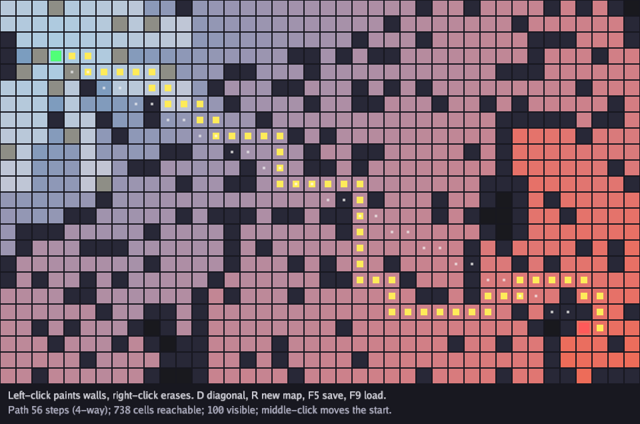
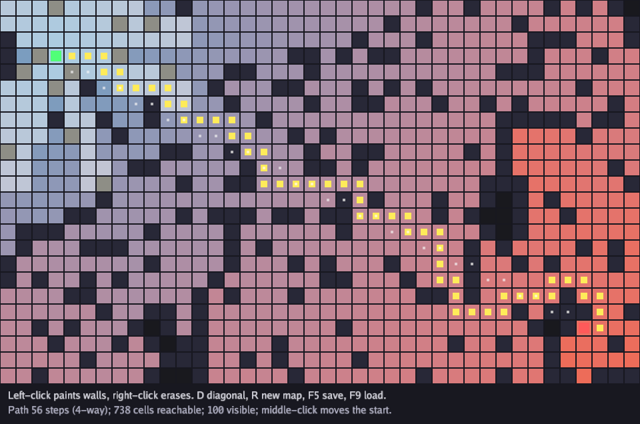
Say plainly that AStar is uninformed and add Pathfinder.MinCost
AStar uses a zero heuristic so it stays correct for zero and
fractional costs, which makes it expand cells in every direction and
several times slower than AStarWithMinCost on an open map. The doc
comments now say so and tell a game to pass the smallest step cost.
Pathfinder.MinCost lets a game set that bound once for a map; its zero
value keeps AStar's current results.

The pathfinding example now calls AStarWithMinCost with 1, the
smallest step it has (a diagonal costs the square root of 2). Its
screenshot shows a different path: ties break differently under the
heuristic, and both paths cost exactly the Dijkstra distance (56 on
the four-way screenshot map, 41.46 eight-way). The golden and the
walkthrough screenshot were rerecorded; the goldens are compared on
another GPU, and an M2 frame of the old path matched the stored image
within tolerance, so the new image will too.

diff --git a/grid/grid.go b/grid/grid.go
@@ -7,8 +7,10 @@
 // over points, so they work on any map representation, not only a Grid.
 // AStar finds one path with four or eight-way movement and a cost per
 // step, including zero and fractional costs. It uses a zero heuristic
-// because the callback provides no positive lower bound on step costs.
-// To guide the search when a lower bound is known, call AStarWithMinCost.
+// because the callback provides no positive lower bound on step costs,
+// so the search is uninformed and expands cells in every direction. For
+// speed, call AStarWithMinCost with the smallest cost any step can
+// have, or set Pathfinder.MinCost once for a map.
 // Dijkstra fills a map of distances from many sources at once. Downhill
 // selects a lower-valued neighbour, useful for uniform-cost movement
 // toward the sources. FOV computes which cells are
@@ -128,8 +130,13 @@ type Cost func(from, to Point) float32
 // Initial searches or buffer growth may allocate. An out-of-bounds
 // endpoint has no path; equal in-bounds endpoints return one point without
 // calling cost.
-// The search uses a zero heuristic to support every nonnegative cost;
-// this can explore more cells than a heuristic with a known cost bound.
+//
+// Without a minimum step cost the search is uninformed: it uses a zero
+// heuristic, which keeps it correct for zero and fractional costs but
+// makes it expand cells in every direction, as Dijkstra does. On a
+// 256 by 256 map that is several times slower than a guided search. For
+// speed, call AStarWithMinCost with the smallest cost any step can have,
+// 1 for a map where every move costs at least 1.
 func AStar(w, h int, start, goal Point, diagonal bool, cost Cost) []Point {
 	return AStarWithMinCost(w, h, start, goal, diagonal, cost, 0)
 }
@@ -173,6 +180,15 @@ func Dijkstra(w, h int, sources []Point, diagonal bool, cost Cost) *Grid[float32
 // NewPathfinder and keep it for as long as the map lasts. A Pathfinder
 // is not safe for concurrent use; give each goroutine its own.
 type Pathfinder struct {
+	// MinCost is the smallest cost any traversable step on the map can
+	// have, diagonals included. To make every AStar call on this
+	// pathfinder a guided search, set it once when the map is made: AStar
+	// then searches as AStarWithMinCost does with this bound. The zero
+	// value leaves AStar uninformed. Overstating it loses the
+	// cheapest-path guarantee; zero, negative, NaN and infinite values
+	// count as zero.
+	MinCost float32
+
 	w, h int
 	gen  uint32
 	seen []uint32 // cells reached this search, stamped with gen
@@ -233,10 +249,14 @@ func (p *Pathfinder) in(q Point) bool {
 // eight-way moves are considered. When there is no path it returns out
 // unchanged and false, so the caller keeps its buffer. Pass out as
 // buf[:0] to search every frame without allocating.
-// A zero heuristic preserves cheapest paths for zero and fractional
-// costs, ordering the search by accumulated cost as in Dijkstra.
+//
+// With MinCost zero, the default, the search is uninformed: a zero
+// heuristic preserves cheapest paths for zero and fractional costs, but
+// orders the search by accumulated cost as in Dijkstra, which expands
+// cells in every direction. For speed, set MinCost to the smallest cost
+// any step can have, or call AStarWithMinCost.
 func (p *Pathfinder) AStar(out []Point, start, goal Point, diagonal bool, cost Cost) ([]Point, bool) {
-	return p.aStar(out, start, goal, diagonal, cost, 0)
+	return p.AStarWithMinCost(out, start, goal, diagonal, cost, p.MinCost)
 }
 
 // AStarWithMinCost appends a path to out as AStar does, using minCost to
@@ -245,8 +265,9 @@ func (p *Pathfinder) AStar(out []Point, start, goal Point, diagonal bool, cost C
 // distance for four-way moves and Chebyshev distance for eight-way moves.
 // The bound is not checked against the map; overstating it loses the
 // cheapest-path guarantee. Zero, negative, NaN and infinite bounds fall
-// back to AStar's zero heuristic. When no path exists, out is unchanged
-// and the result is false. Pass buf[:0] to reuse the output storage.
+// back to the zero heuristic. minCost applies to this call in place of
+// the MinCost field. When no path exists, out is unchanged and the
+// result is false. Pass buf[:0] to reuse the output storage.
 func (p *Pathfinder) AStarWithMinCost(out []Point, start, goal Point, diagonal bool, cost Cost, minCost float32) ([]Point, bool) {
 	if !(minCost > 0 && minCost <= math.MaxFloat32) {
 		minCost = 0

diff --git a/grid/mincost_test.go b/grid/mincost_test.go
@@ -165,6 +165,50 @@ func TestAStarWithMinCostBufferAndEndpoints(t *testing.T) {
 	}
 }
 
+// TestPathfinderMinCost checks that the MinCost field makes AStar search
+// exactly as AStarWithMinCost does with the same bound, and that its
+// zero value and invalid values leave AStar's results unchanged.
+func TestPathfinderMinCost(t *testing.T) {
+	const w, h = 12, 9
+	r := rand.New(rand.NewPCG(4, 17))
+	values := []float32{1, 1.5, 2, 3, Blocked}
+	for trial := range 300 {
+		edges := make([][9]float32, w*h)
+		for i := range edges {
+			for j := range edges[i] {
+				edges[i][j] = values[r.IntN(len(values))]
+			}
+		}
+		cost := func(from, to Point) float32 {
+			return edges[from.Y*w+from.X][(to.Y-from.Y+1)*3+to.X-from.X+1]
+		}
+		start, goal := Point{r.IntN(w), r.IntN(h)}, Point{r.IntN(w), r.IntN(h)}
+		diagonal := trial%2 == 0
+		pf := NewPathfinder(w, h)
+		uninformed, okU := pf.AStar(nil, start, goal, diagonal, cost)
+		guided, okG := pf.AStarWithMinCost(nil, start, goal, diagonal, cost, 1)
+		for _, bad := range []float32{0, -1, float32(math.NaN()), float32(math.Inf(1))} {
+			pf.MinCost = bad
+			if got, ok := pf.AStar(nil, start, goal, diagonal, cost); ok != okU || !slices.Equal(got, uninformed) {
+				t.Fatalf("trial %d: MinCost %v changed AStar: %v, want %v", trial, bad, got, uninformed)
+			}
+		}
+		pf.MinCost = 1
+		if got, ok := pf.AStar(nil, start, goal, diagonal, cost); ok != okG || !slices.Equal(got, guided) {
+			t.Fatalf("trial %d: MinCost 1 gave %v, AStarWithMinCost %v", trial, got, guided)
+		}
+		// An explicit bound overrides the field.
+		pf.MinCost = 1
+		if got, _ := pf.AStarWithMinCost(nil, start, goal, diagonal, cost, 0); !slices.Equal(got, uninformed) {
+			t.Fatalf("trial %d: explicit zero bound used the field", trial)
+		}
+		if okU {
+			want := Dijkstra(w, h, []Point{start}, diagonal, cost).At(goal.X, goal.Y)
+			checkPathCost(t, guided, start, goal, diagonal, cost, want)
+		}
+	}
+}
+
 func TestAStarWithMinCostAllocations(t *testing.T) {
 	pf := NewPathfinder(16, 16)
 	out := make([]Point, 0, 256)

diff --git a/examples/pathfinding/main.go b/examples/pathfinding/main.go
@@ -178,7 +178,8 @@ func (g *game) Draw(ctx *engine.Context) error {
 		}
 		gr.FillRect(float32(x*cell)+1, float32(y*cell)+1, cell-2, cell-2, c)
 	})
-	path := grid.AStar(cols, rows, g.start, goal, g.diagonal, g.cost)
+	// Every step costs at least 1 (a diagonal costs √2), so 1 guides the search.
+	path := grid.AStarWithMinCost(cols, rows, g.start, goal, g.diagonal, g.cost, 1)
 	for _, p := range path {
 		gr.FillRect(float32(p.X*cell)+7, float32(p.Y*cell)+7, cell-14, cell-14, gfx.RGB(255, 235, 90))
 	}

diff --git a/docs/examples/pathfinding.md b/docs/examples/pathfinding.md
@@ -283,8 +283,13 @@ because the components are computed rather than sampled from an image:
 the fields are linear values from zero to one, which is what the
 renderer works in, while `gfx.RGB` converts from sRGB bytes.
 
-`grid.AStar` returns the path including both endpoints, or nil when there
-is none. `grid.Line` returns the cells a straight line passes through,
+`grid.AStarWithMinCost` returns the path including both endpoints, or nil
+when there is none. Its last argument is the smallest cost any step can
+have. A straight step here costs 1 and a diagonal step costs √2, so the
+bound is 1, and the search heads for the goal instead of spreading out
+in every direction as `grid.AStar` does without a bound. If cheaper
+terrain is added, lower the bound to its step cost; pass zero when the
+minimum is unknown or zero-cost moves exist. `grid.Line` returns the cells a straight line passes through,
 which a game uses for a thrown weapon or a line of sight check.
 `gfx.RGBA` takes an alpha byte, so the line is drawn translucent over the
 cells.
@@ -307,7 +312,8 @@ cells.
 		}
 		gr.FillRect(float32(x*cell)+1, float32(y*cell)+1, cell-2, cell-2, c)
 	})
-	path := grid.AStar(cols, rows, g.start, goal, g.diagonal, g.cost)
+	// Every step costs at least 1 (a diagonal costs √2), so 1 guides the search.
+	path := grid.AStarWithMinCost(cols, rows, g.start, goal, g.diagonal, g.cost, 1)
 	for _, p := range path {
 		gr.FillRect(float32(p.X*cell)+7, float32(p.Y*cell)+7, cell-14, cell-14, gfx.RGB(255, 235, 90))
 	}
@@ -363,13 +369,13 @@ func main() {
   route around it while the Dijkstra shading shows why.
 - Raise the field of view radius in `Draw` and see the shadowcasting cost
   nothing noticeable at this size.
-- Keep a `grid.Pathfinder` on the game type and call its `AStar` method
-  from `Draw` instead of the package function, which is what a game with
-  many actors does.
-- Use `AStarWithMinCost` with a final argument of `1` to speed up the
-  search: every traversable move in this example costs at least one.
-  If cheaper terrain is added, lower that bound to its minimum step
-  cost; use zero when the minimum is unknown or zero-cost moves exist.
+- Keep a `grid.Pathfinder` on the game type, set its `MinCost` to 1 once,
+  and call its `AStar` method from `Draw` instead of the package
+  function, which is what a game with many actors does.
+- Replace the call with `grid.AStar` and compare the time: without a
+  minimum step cost the search is uninformed and visits far more cells.
+  Both find a path of the same cost, though where several paths tie they
+  may draw a different one.
 - Move the searches into `Update` and keep their results on the game, so
   they run at the fixed step rather than once per frame.
 - Add a `Version` check to the load in `Update` and refuse a file from a
